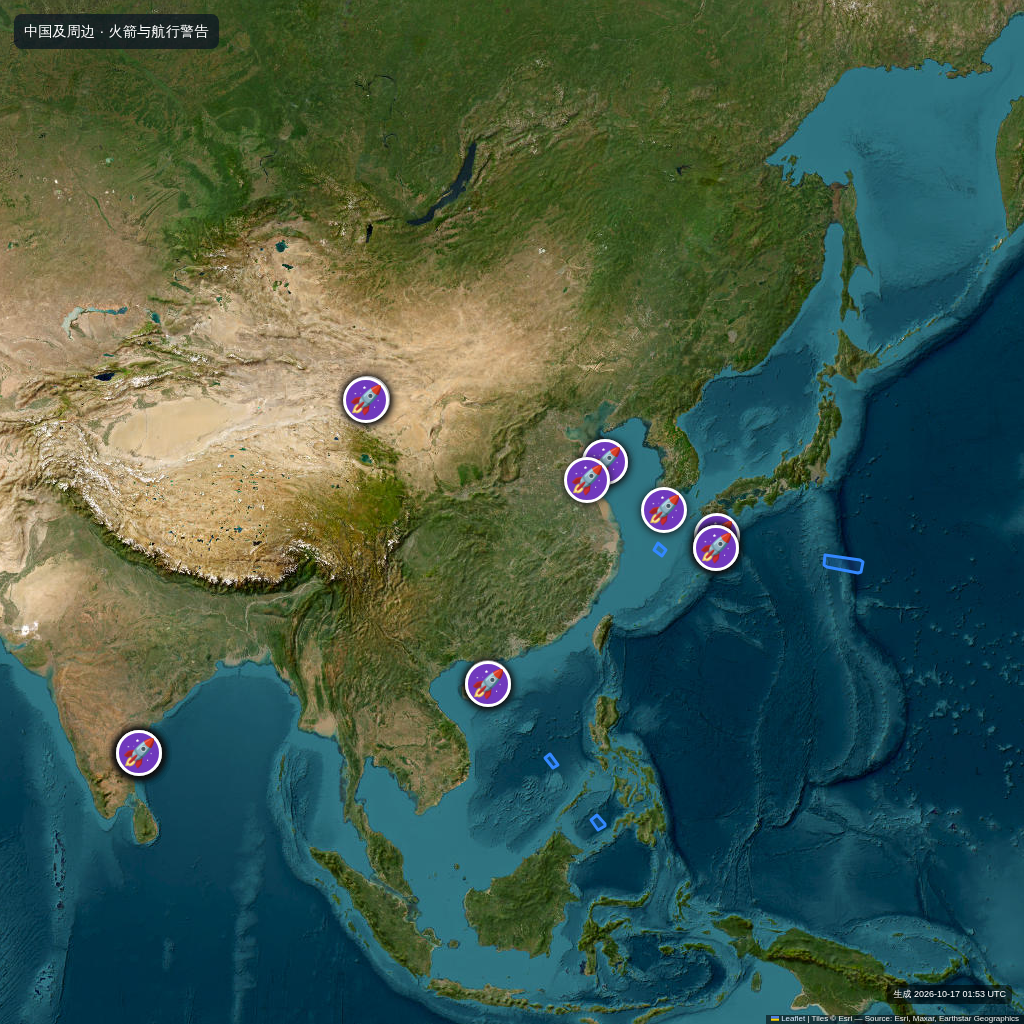
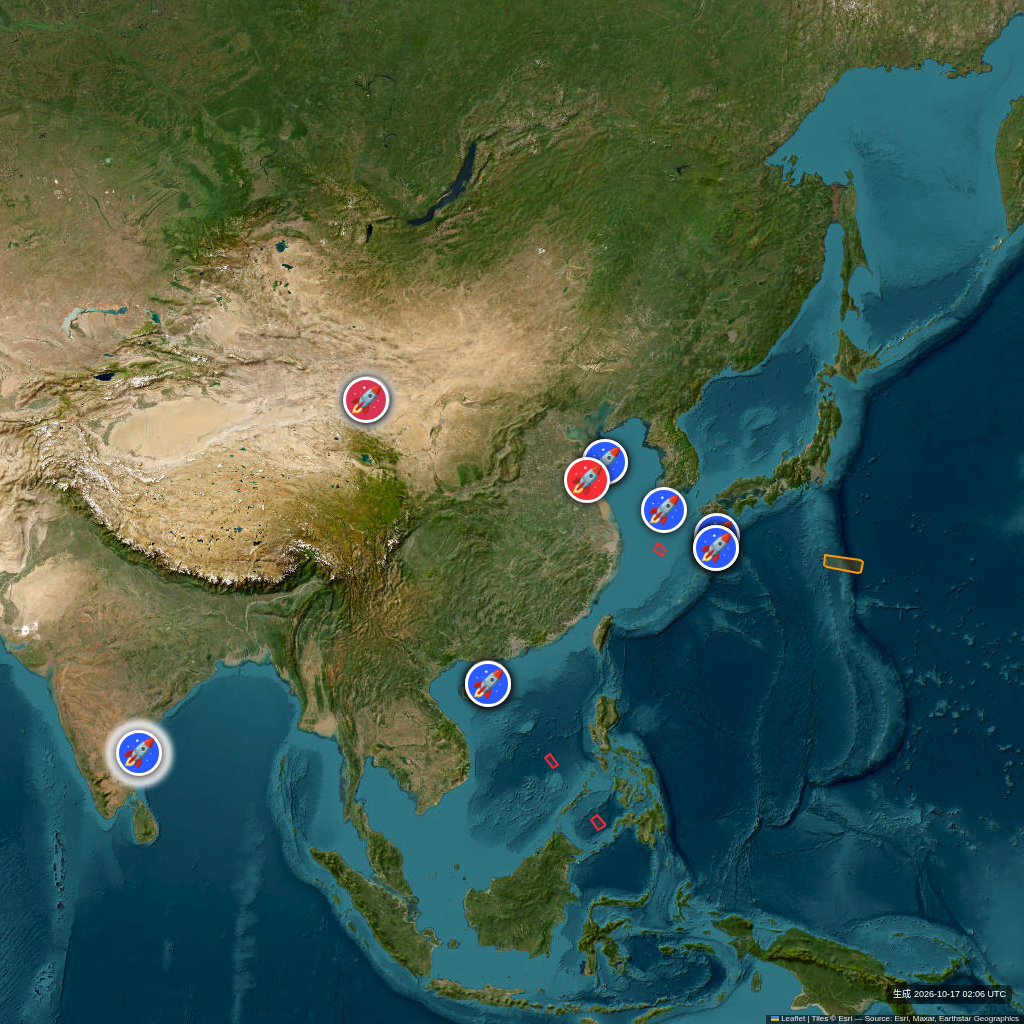
Match widget map colors and twilight glow

diff --git a/widget/render.html b/widget/render.html
@@ -12,19 +12,18 @@
     #map { position: relative; width: min(100vw, 100vh); height: min(100vw, 100vh); overflow: hidden; }
     .leaflet-control-attribution { font-size: 8px !important; line-height: 1.1 !important; background: rgba(0,0,0,.55) !important; color: #eee !important; }
     .leaflet-control-attribution a { color: #d8e8ff !important; }
-    .rocket-marker { display:flex; align-items:center; justify-content:center; width:46px;height:46px;border:3px solid white;border-radius:50%; background:#7039bd; box-shadow:0 1px 8px #111; font-size:27px; }
-    .rocket-marker.past { background:#315fd5; }
-    .map-title { position:absolute; z-index:1000; top:14px; left:14px; padding:7px 10px; border-radius:8px; color:white; background:rgba(8,20,35,.72); font-size:14px; letter-spacing:.02em; pointer-events:none; }
+    .rocket-marker { display:flex; align-items:center; justify-content:center; width:46px;height:46px;border:3px solid white;border-radius:50%; box-shadow:0 1px 8px #111; font-size:27px; }
+    .twilight-glow { filter:drop-shadow(0 0 5px #fff) drop-shadow(0 0 3px #fff); }
     .generated-at { position:absolute; z-index:1000; right:12px; bottom:20px; color:#fff; padding:3px 6px; border-radius:4px; background:rgba(0,0,0,.55); font-size:9px; pointer-events:none; }
   </style>
 </head>
 <body>
   <main id="map" aria-label="中国及周边火箭发射和海空警告地图">
-    <div class="map-title">中国及周边 · 火箭与航行警告</div>
     <div class="generated-at" id="generatedAt">更新中…</div>
   </main>
   <script src="https://unpkg.com/leaflet@1.9.4/dist/leaflet.js"></script>
   <script src="https://unpkg.com/leaflet-omnivore@0.3.4/leaflet-omnivore.min.js"></script>
+  <script src="suncalc.js"></script>
   <script>
     (() => {
       const map = L.map('map', { zoomControl:false, attributionControl:true, preferCanvas:true }).setView([31.5, 116], 4);
@@ -36,13 +35,52 @@
       // Fixed square frame, centered on China with surrounding seas and Japan.
       map.fitBounds([[4, 78], [55, 148]], { animate:false, padding:[0,0] });
 
-      const ready = { launches:false, notams:false, msi:false };
+      const ready = { launches:false, notams:false, msi:false, notamCsv:false, msiCsv:false };
+      const allWarnings=[];
+      let launchRecords=[];
+      let layersByKind={};
+      let timeline={minTs:Date.now(),maxTs:Date.now()+86400000};
       const failSoft = (kind, err) => { console.warn(kind, err || 'unavailable'); ready[kind] = true; finishIfReady(); };
       const finishIfReady = () => {
         if (!Object.values(ready).every(Boolean)) return;
+        timeline=getTimelineBounds(allWarnings,launchRecords.map(x=>parseWidgetDate(x.net||x.window_start||x.win_open||x['Launch Date and Time (UTC)']||'')).filter(Number.isFinite));
+        drawLaunches(launchRecords);
+        styleWarningLayers();
         document.getElementById('generatedAt').textContent = '生成 ' + new Date().toISOString().replace('T',' ').slice(0,16) + ' UTC';
         window.widgetReady = true;
       };
+
+      function getTimelineBounds(rows,extraTimes=[]) {
+        const now=Date.now();
+        const times=rows.map(r=>Date.parse(r.from_utc)).filter(Number.isFinite).concat(extraTimes);
+        return {minTs:now,maxTs:Math.max(now+86400000,...times)};
+      }
+      function colorByTime(ts) {
+        if(!Number.isFinite(ts)||timeline.maxTs<=timeline.minTs) return '#d33';
+        const t=Math.max(0,Math.min(1,(ts-timeline.minTs)/(timeline.maxTs-timeline.minTs)));
+        return `rgb(${Math.round(255*(1-t)+43*t)},${Math.round(43*(1-t)+91*t)},${Math.round(43*(1-t)+255*t)})`;
+      }
+      function parseWidgetDate(value) {
+        if(!value) return NaN;
+        const direct=Date.parse(value); if(Number.isFinite(direct)) return direct;
+        const m=String(value).trim().toUpperCase().match(/^(\d{4})\s+([A-Z]{3})\s+(\d{1,2})\s+(\d{2})(\d{2})$/);
+        if(!m) return NaN;
+        const months={JAN:0,FEB:1,MAR:2,APR:3,MAY:4,JUN:5,JUL:6,AUG:7,SEP:8,OCT:9,NOV:10,DEC:11};
+        return Date.UTC(Number(m[1]),months[m[2]],Number(m[3]),Number(m[4]),Number(m[5]));
+      }
+      function isMaritime(row) { return row.country==='Maritime'||row.fir==='MSI'; }
+      function twilightGlow(row) {
+        const from=Date.parse(row.from_utc),to=Date.parse(row.to_utc);
+        if(!Number.isFinite(from)||!Number.isFinite(Number(row.lat))||(Number.isFinite(to)&&(to-from)>12*3600000)||!window.SunCalc) return false;
+        const midpoint=new Date(Number.isFinite(to)?(from+to)/2:from);
+        const times=SunCalc.getTimes(midpoint,Number(row.lat),Number(row.lon)||0);
+        return (midpoint>=times.sunset&&midpoint<=times.night)||(midpoint>=times.nightEnd&&midpoint<=times.sunrise);
+      }
+      function launchTwilight(ts,lat,lon) {
+        if(!Number.isFinite(ts)||!Number.isFinite(lat)||!Number.isFinite(lon)||!window.SunCalc) return false;
+        const date=new Date(ts),times=SunCalc.getTimes(date,lat,lon);
+        return (date>=times.sunset&&date<=times.night)||(date>=times.nightEnd&&date<=times.sunrise);
+      }
 
       function parseCsv(text) {
         const rows=[]; let row=[], field='', quoted=false;
@@ -68,8 +106,10 @@
           const lon=Number(launch.widgetLon ?? pad.longitude ?? pad.lon ?? location.longitude ?? location.lon ?? launch.Longitude);
           if (!Number.isFinite(lat) || !Number.isFinite(lon) || lat<4 || lat>55 || lon<78 || lon>148) continue;
           const time=launch.net || launch.window_start || launch.win_open || launch['Launch Date and Time (UTC)'] || '';
-          const past=Date.parse(time) < Date.now();
-          const icon=L.divIcon({ className:'', html:`<div class="rocket-marker ${past?'past':''}">🚀</div>`, iconSize:[46,46], iconAnchor:[23,23] });
+          const ts=parseWidgetDate(time),past=Number.isFinite(ts)&&ts<Date.now();
+          const color=past?'#22c55e':colorByTime(ts);
+          const glow=!past&&launchTwilight(ts,lat,lon);
+          const icon=L.divIcon({ className:'', html:`<div class="rocket-marker${glow?' twilight-glow':''}" style="background:${color}">🚀</div>`, iconSize:[46,46], iconAnchor:[23,23] });
           L.marker([lat,lon],{icon,interactive:false}).addTo(map);
         }
       }
@@ -79,20 +119,43 @@
           const response=await fetch('https://ll.thespacedevs.com/2.3.0/launches/?'+params,{cache:'no-store'});
           if (!response.ok) throw Error(`Space Devs HTTP ${response.status}`);
           const data=await response.json();
-          drawLaunches(Array.isArray(data.results)?data.results:[]);
+          launchRecords=Array.isArray(data.results)?data.results:[];
         } catch (error) {
           console.warn('Space Devs launches unavailable; using local schedule',error);
           try {
             const response=await fetch('../upcoming_launches.csv?widget='+Date.now(),{cache:'no-store'});
             if(!response.ok) throw Error(response.status);
-            drawLaunches(parseCsv(await response.text()));
+            launchRecords=parseCsv(await response.text());
           } catch (fallbackError) { console.warn('Local launch schedule unavailable',fallbackError); }
         } finally { ready.launches=true; finishIfReady(); }
       }
       loadLaunches();
 
+      async function loadWarningCsv(kind) {
+        const path=kind==='msi'?'../msi.csv':'../notams.csv';
+        try { const response=await fetch(path+'?widget='+Date.now(),{cache:'no-store'}); if(!response.ok) throw Error(response.status); return parseCsv(await response.text()); }
+        catch(e) { console.warn(kind+' CSV unavailable',e); return []; }
+      }
+      function styleWarningLayers() {
+        for(const kind of ['notams','msi']) {
+          const layer=layersByKind[kind]; if(!layer) continue;
+          const byName=new Map(allWarnings.filter(r=>kind==='msi'?isMaritime(r):!isMaritime(r)).map(r=>[String(r.notam_id||'').toUpperCase(),r]));
+          const visit=(group)=>group.eachLayer(child=>{
+            if(child.eachLayer) visit(child);
+            const name=String(child.feature?.properties?.name||'').toUpperCase();
+            const row=byName.get(name); if(!row||typeof child.setStyle!=='function') return;
+            const color=isMaritime(row)?'#ff9900':colorByTime(Date.parse(row.from_utc));
+            const glow=twilightGlow(row);
+            child.setStyle({color,fillColor:color,fillOpacity:0.2,weight:glow?4:2,opacity:1});
+            if(glow&&child._path) child._path.classList.add('twilight-glow');
+          });
+          visit(layer);
+        }
+      }
       for (const [kind,path] of [['notams','../notams.kml'],['msi','../msi.kml']]) {
+        loadWarningCsv(kind).then(rows=>{ allWarnings.push(...rows); ready[kind==='msi'?'msiCsv':'notamCsv']=true; finishIfReady(); });
         const layer=omnivore.kml(path + '?widget=' + Date.now());
+        layersByKind[kind]=layer;
         layer.on('ready',()=>{ layer.addTo(map); ready[kind]=true; finishIfReady(); });
         layer.on('error',e=>failSoft(kind,e));
       }

diff --git a/widget/suncalc.js b/widget/suncalc.js
@@ -1,0 +1,1 @@
+    !function(){"use strict";var w=Math.PI,i=Math.sin,c=Math.cos,o=Math.tan,a=Math.asin,d=Math.atan2,s=Math.acos,p=w/180,e=864e5,n=2440588,r=2451545;function m(t){return new Date((t+.5-n)*e)}function D(t){return t.valueOf()/e-.5+n-r}var u=23.4397*p;function f(t,n){return d(i(t)*c(u)-o(n)*i(u),c(t))}function P(t,n){return a(i(n)*c(u)+c(n)*i(u)*i(t))}function l(t,n,e){return d(i(t),c(t)*i(n)-o(e)*c(n))}function h(t,n,e){return a(i(n)*i(e)+c(n)*c(e)*c(t))}function M(t,n){return p*(280.16+360.9856235*t)-n}function y(t){return p*(357.5291+.98560028*t)}function b(t){return t+p*(1.9148*i(t)+.02*i(2*t)+3e-4*i(3*t))+102.9372*p+w}function g(t){t=b(y(t));return{dec:P(t,0),ra:f(t,0)}}var H={getPosition:function(t,n,e){var a=p*-e,e=p*n,n=D(t),t=g(n),a=M(n,a)-t.ra;return{azimuth:l(a,e,t.dec),altitude:h(a,e,t.dec)}}},T=H.times=[[-.833,"sunrise","sunset"],[-.3,"sunriseEnd","sunsetStart"],[-6,"dawn","dusk"],[-12,"nauticalDawn","nauticalDusk"],[-18,"nightEnd","night"],[6,"goldenHourEnd","goldenHour"]];H.addTime=function(t,n,e){T.push([t,n,e])};function E(t,n,e){return 9e-4+(t+n)/(2*w)+e}function I(t,n,e){return r+t+.0053*i(n)-.0069*i(2*e)}function k(t,n,e,a,r,u,o){return I(E((e=e,a=a,s((i(t)-i(e)*i(a))/(c(e)*c(a)))),n,r),u,o)}function v(t){var n=p*(134.963+13.064993*t),e=p*(93.272+13.22935*t),t=p*(218.316+13.176396*t)+6.289*p*i(n),e=5.128*p*i(e),n=385001-20905*c(n);return{ra:f(t,e),dec:P(t,e),dist:n}}function q(t,n){return new Date(t.valueOf()+n*e/24)}H.getTimes=function(t,n,e,a){for(var r,u,o=p*-e,i=p*n,c=(a=a=a||0,-2.076*Math.sqrt(a)/60),t=D(t),d=Math.round(t-9e-4-o/(2*w)),t=E(0,o,d),s=y(t),f=b(s),l=P(f,0),h=I(t,s,f),M={solarNoon:m(h),nadir:m(h-.5)},g=0,v=T.length;g<v;g+=1)u=k(((r=T[g])[0]+c)*p,o,i,l,d,s,f),M[r[1]]=m(h-(u-h)),M[r[2]]=m(u);return M},H.getMoonPosition=function(t,n,e){var a=p*-e,r=p*n,u=D(t),e=v(u),n=M(u,a)-e.ra,t=h(n,r,e.dec),u=d(i(n),o(r)*c(e.dec)-i(e.dec)*c(n));return t+=((a=t)<0&&(a=0),2967e-7/Math.tan(a+.00312536/(a+.08901179))),{azimuth:l(n,r,e.dec),altitude:t,distance:e.dist,parallacticAngle:u}},H.getMoonIllumination=function(t){var n=D(t||new Date),e=g(n),t=v(n),n=s(i(e.dec)*i(t.dec)+c(e.dec)*c(t.dec)*c(e.ra-t.ra)),n=d(149598e3*i(n),t.dist-149598e3*c(n)),t=d(c(e.dec)*i(e.ra-t.ra),i(e.dec)*c(t.dec)-c(e.dec)*i(t.dec)*c(e.ra-t.ra));return{fraction:(1+c(n))/2,phase:.5+.5*n*(t<0?-1:1)/Math.PI,angle:t}},H.getMoonTimes=function(t,n,e,a){var r=new Date(t);a?r.setUTCHours(0,0,0,0):r.setHours(0,0,0,0);for(var u,o,i,c,d,s,f,l,h,M,g,v=.133*p,w=H.getMoonPosition(r,n,e).altitude-v,m=1;m<=24&&(l=H.getMoonPosition(q(r,m),n,e).altitude-v,f=((c=(w+(u=H.getMoonPosition(q(r,m+1),n,e).altitude-v))/2-l)*(s=-(d=(u-w)/2)/(2*c))+d)*s+l,(h=0)<=(l=d*d-4*c*l)&&(M=s-(g=Math.sqrt(l)/(2*Math.abs(c))),g=s+g,Math.abs(M)<=1&&h++,Math.abs(g)<=1&&h++,M<-1&&(M=g)),1===h?w<0?o=m+M:i=m+M:2===h&&(o=m+(f<0?g:M),i=m+(f<0?M:g)),!o||!i);m+=2)w=u;a={};return o&&(a.rise=q(r,o)),i&&(a.set=q(r,i)),o||i||(a[0<f?"alwaysUp":"alwaysDown"]=!0),a},"object"==typeof exports&&"undefined"!=typeof module?module.exports=H:"function"==typeof define&&define.amd?define(H):window.SunCalc=H}();
